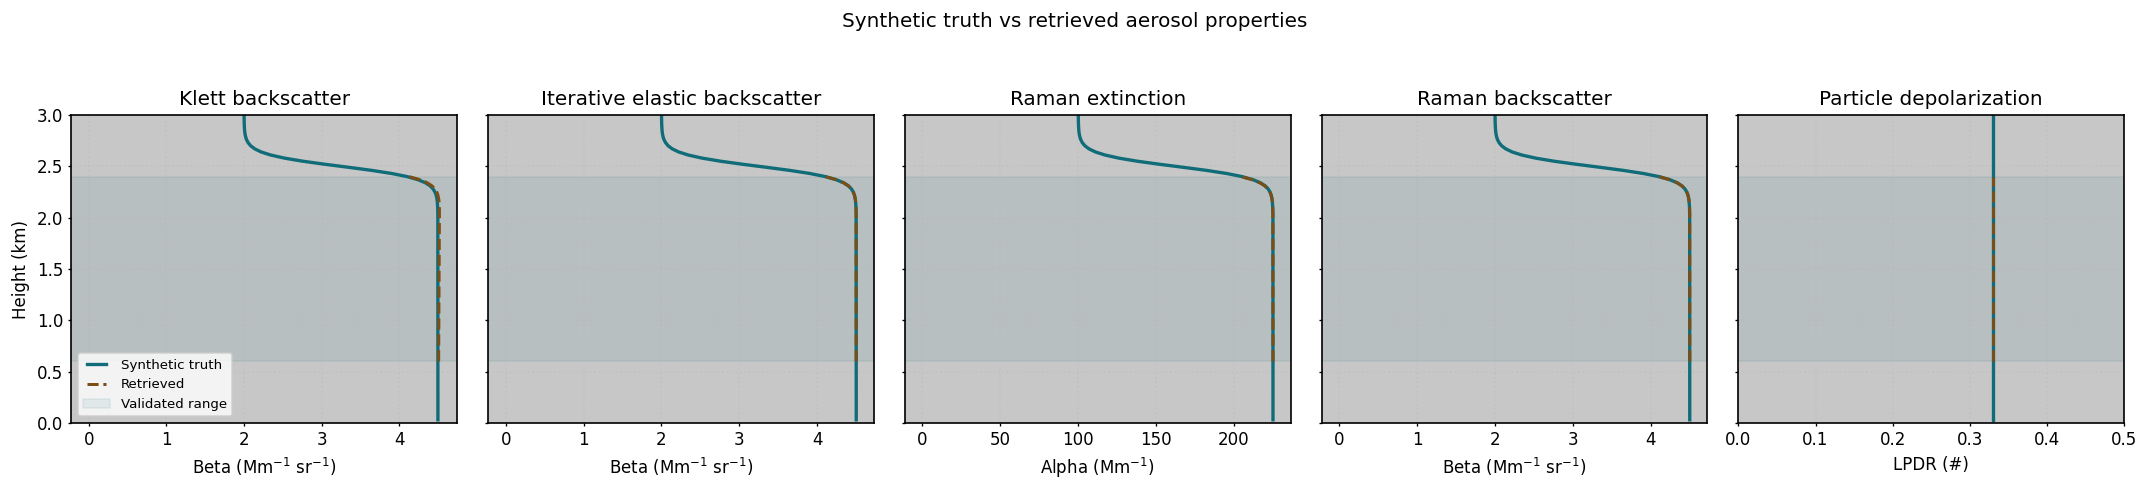
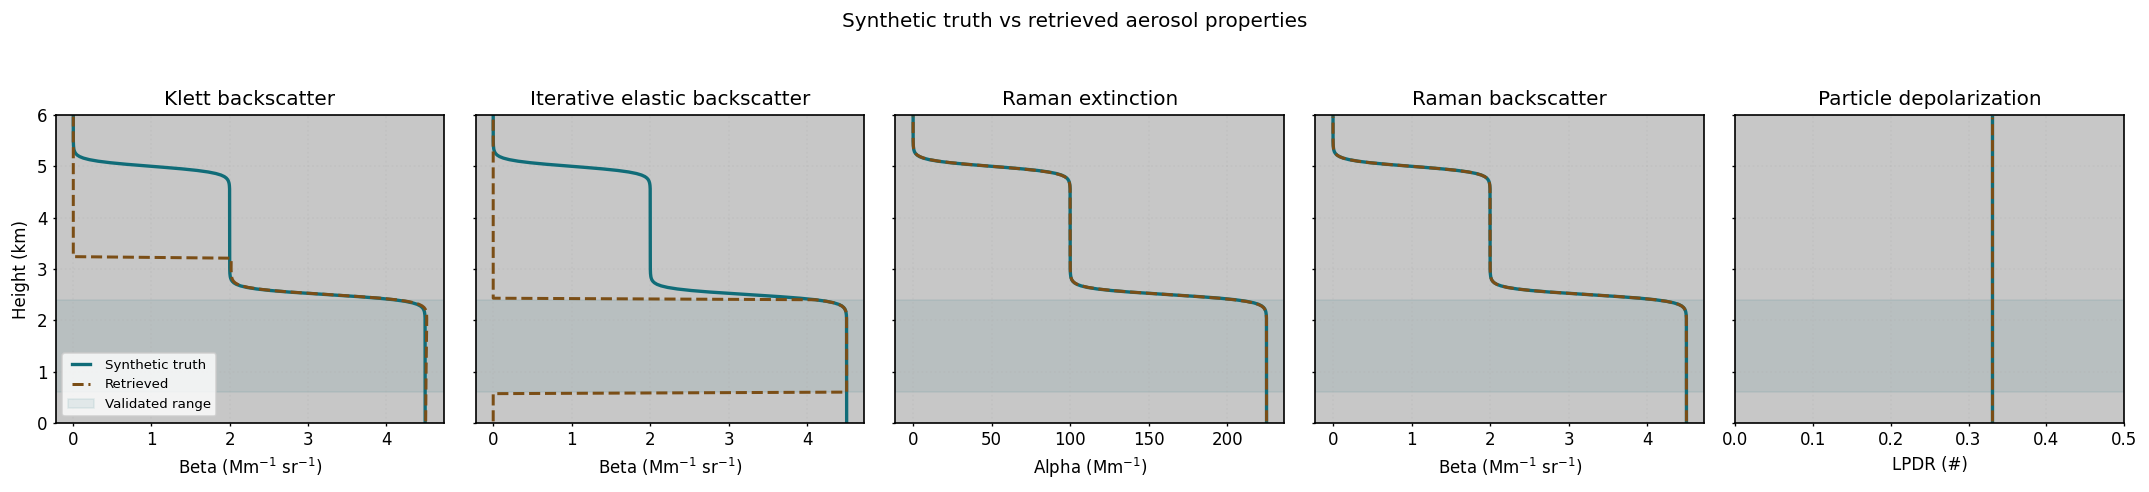
Extend retrieval figure to molecular region

diff --git a/scripts/generate_docs_figures.py b/scripts/generate_docs_figures.py
@@ -135,12 +135,10 @@ def _plot_truth_vs_retrieved(
     legend: bool = False,
 ) -> None:
     height_km = ranges / 1000.0
-    validated = (height_km >= 0.6) & (height_km <= 2.4)
-    retrieved_in_validated_range = np.where(validated, retrieved, np.nan)
 
     ax.plot(truth, height_km, color="#106c78", linewidth=2.0, label="Synthetic truth")
     ax.plot(
-        retrieved_in_validated_range,
+        retrieved,
         height_km,
         color="#7b4e16",
         linewidth=1.8,
@@ -151,7 +149,7 @@ def _plot_truth_vs_retrieved(
     ax.set_title(title)
     ax.set_xlabel(xlabel)
     ax.set_ylabel("Height (km)")
-    ax.set_ylim(0.0, 3.0)
+    ax.set_ylim(0.0, 6.0)
     if xlim is not None:
         ax.set_xlim(*xlim)
     ax.ticklabel_format(axis="x", useOffset=False)
